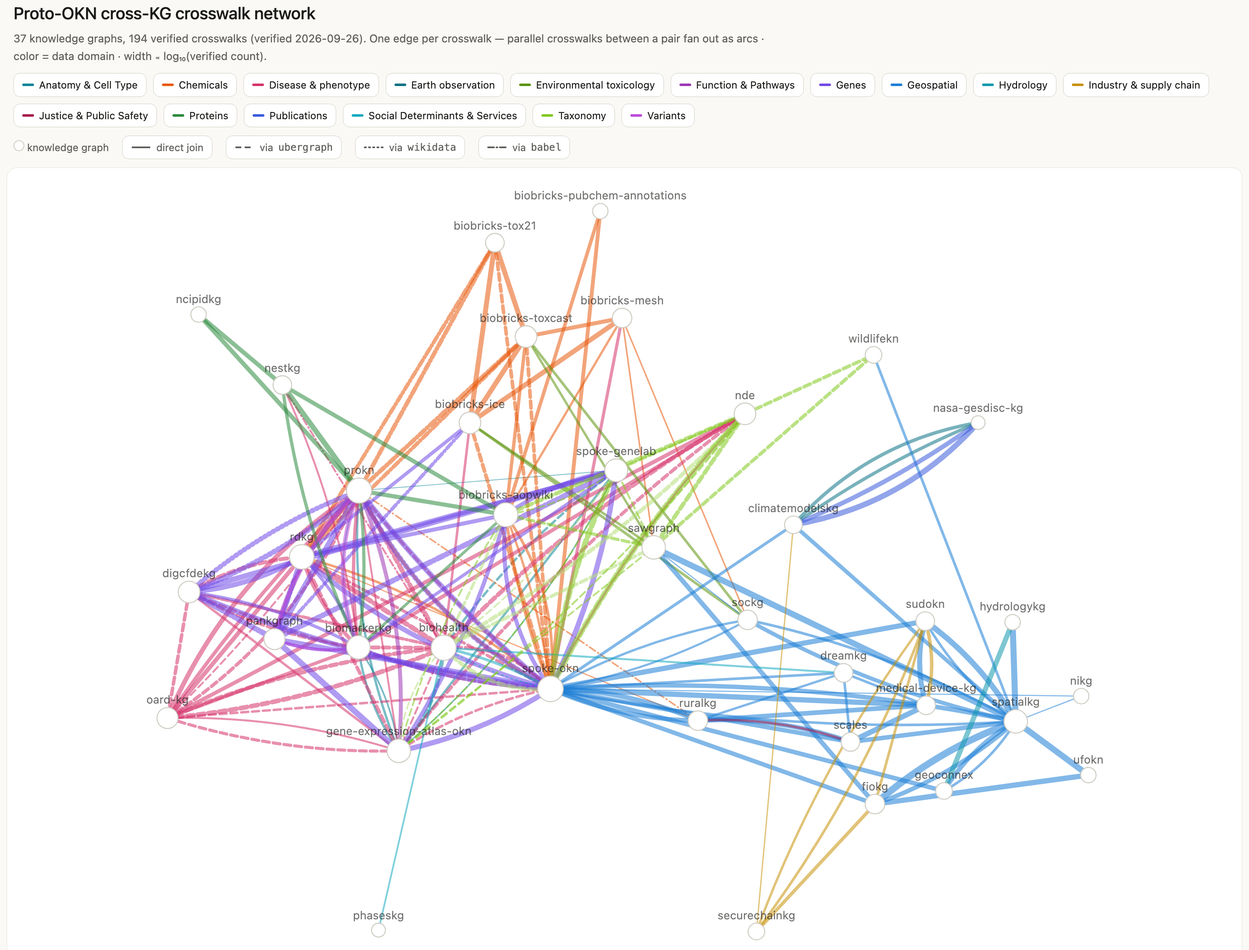
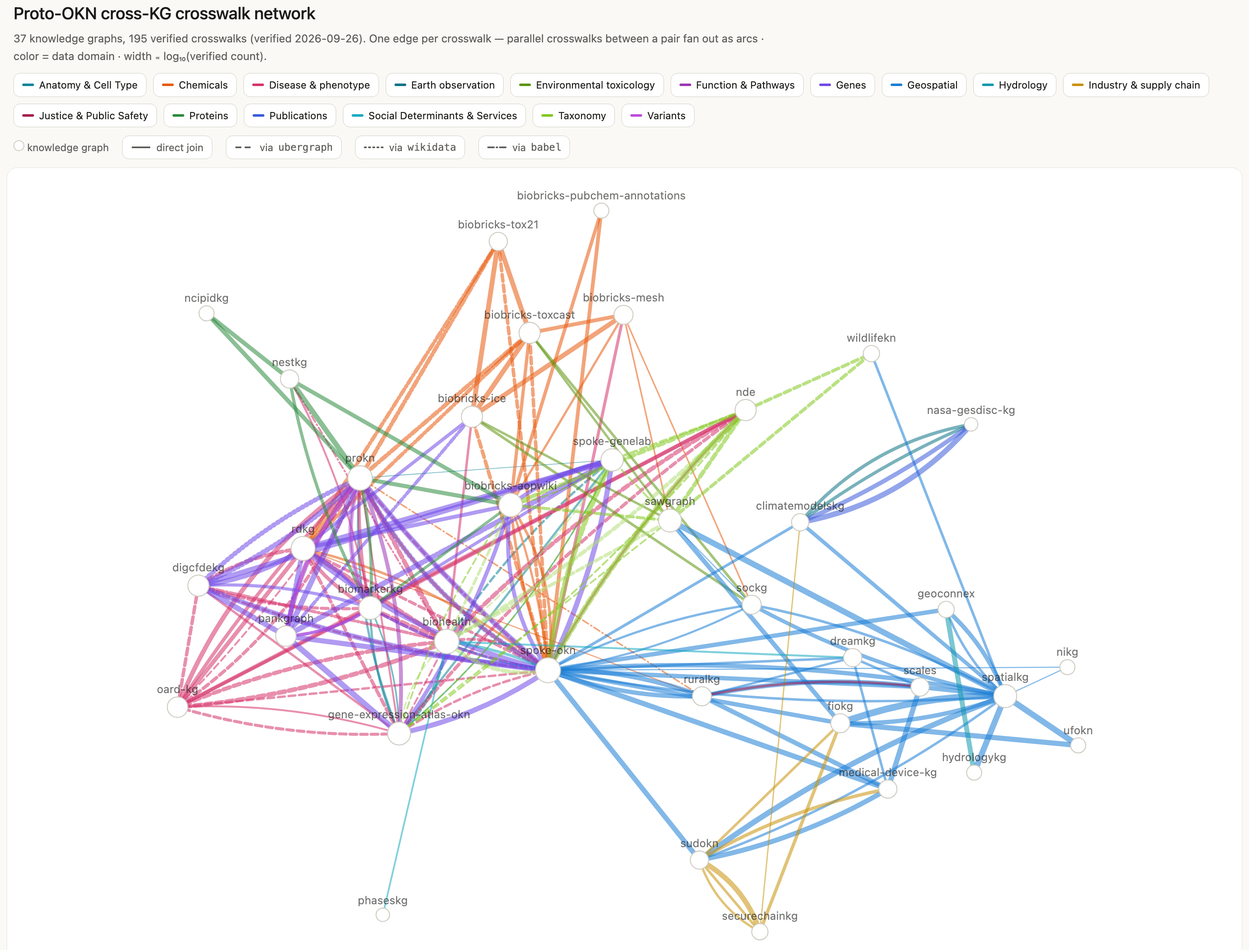
feat(crosswalks): add securechainkg×sudokn product-identity crosswalk (I4)
New verified crosswalk in metadata/crosswalks.json:

  id              I4-product-identity-securechain-sudokn
  join            securechainkg sc:HardwareVersion --owl:sameAs--> sudokn Product
  shared_key      SUDOKN_product_IRI
  verified_count  17,644 distinct products present on both sides
  skeleton_query  verified; reproduces the count in ~0.5s unsampled

SecureChain asserts owl:sameAs from its hardware versions onto SUDOKN product
IRIs: 18,094 triples, all into the SUDOKN namespace, all with HardwareVersion
subjects. The pair was previously catalogued only at the industry grain
(I1 NAICS, I2 industry sector). This is its first entity-level join. It
attributes 435 CVEs to 51 named SUDOKN manufacturers, which the industry joins
cannot do.

Also in this commit:
- cluster_notes.I_manufacturing_supply_chain: UPDATE paragraph correcting the
  statement that Hardware/HardwareVersion have no federation partner
- known_non_joins[securechainkg]: correction_2 pointing at I4
- count citations 181 -> 182 in README.md, crosswalks_example.md,
  proto-okn-crosswalk-inventory.md (skeleton count 179 -> 180)
- regenerated: inventory .md/.html, SPARQL skeleton reference, network
  .html/.png

diff --git a/docs/crosswalks/proto-okn-crosswalk-inventory.html b/docs/crosswalks/proto-okn-crosswalk-inventory.html
@@ -78,7 +78,7 @@ section[hidden], tr[hidden] { display: none; }
 <main>
 <h1>Proto-OKN Crosswalk Inventory</h1>
 <p class="meta"><span>Verified 2026-09-26</span><span>claude-opus-4-8</span><span><a href="https://apps.okn.us/federation/sparql">apps.okn.us/federation/sparql</a></span></p>
-<p class="lede">All 194 precomputed cross-KG crosswalks (verified through 2026-09-26), grouped by domain. Each shows the knowledge graphs joined, the shared identifier, the verified overlap count, and example questions the join answers. <strong>Every question links to the transcript</strong> of the worked example that answers it — the federated SPARQL, the rows it returned, and the reading.</p>
+<p class="lede">All 195 precomputed cross-KG crosswalks (verified through 2026-09-26), grouped by domain. Each shows the knowledge graphs joined, the shared identifier, the verified overlap count, and example questions the join answers. <strong>Every question links to the transcript</strong> of the worked example that answers it — the federated SPARQL, the rows it returned, and the reading.</p>
 <ul class="toc">
     <li><a href="#anatomy-cell-type">Anatomy &amp; Cell Type <span class="n">9</span></a></li>
     <li><a href="#chemicals">Chemicals <span class="n">26</span></a></li>
@@ -89,7 +89,7 @@ section[hidden], tr[hidden] { display: none; }
     <li><a href="#genes">Genes <span class="n">28</span></a></li>
     <li><a href="#geospatial">Geospatial <span class="n">39</span></a></li>
     <li><a href="#hydrology">Hydrology <span class="n">1</span></a></li>
-    <li><a href="#industry-supply-chain">Industry &amp; supply chain <span class="n">6</span></a></li>
+    <li><a href="#industry-supply-chain">Industry &amp; supply chain <span class="n">7</span></a></li>
     <li><a href="#justice-public-safety">Justice &amp; Public Safety <span class="n">1</span></a></li>
     <li><a href="#proteins">Proteins <span class="n">8</span></a></li>
     <li><a href="#publications">Publications <span class="n">2</span></a></li>
@@ -330,6 +330,7 @@ section[hidden], tr[hidden] { display: none; }
     <tr><td class="kgs">fiokg ↔ sudokn</td><td class="key">NAICS</td><td class="count">60</td><td class="examples"><a class="q" href="https://github.com/sbl-sdsc/mcp-okn/blob/main/docs/crosswalks/crosswalks_examples/industry02_q1_fiokg-sudokn_naics-epa-overlap.md">For a manufacturing NAICS industry, list SUDOKN small/medium manufacturers (capabilities, certificates) alongside the EPA FRS facilities (fiokg) in that same industry - and, via fiokg's county/S2 location, where those facilities sit on the spatial hub.</a><br><br><a class="q" href="https://github.com/sbl-sdsc/mcp-okn/blob/main/docs/crosswalks/crosswalks_examples/industry02_q2_fiokg-sudokn_pfas-smm.md">Starting from EPA FRS facilities (fiokg) clustered in a given county via their S2/county links, which NAICS industries do they represent, and are there SUDOKN small/medium manufacturers with matching capabilities in those same NAICS codes for local sourcing?</a></td></tr>
     <tr><td class="kgs">securechainkg ↔ sudokn</td><td class="key">NAICS</td><td class="count">35</td><td class="examples"><a class="q" href="https://github.com/sbl-sdsc/mcp-okn/blob/main/docs/crosswalks/crosswalks_examples/industry03_q1_securechainkg-sudokn_naics-overlap.md">For a manufacturing NAICS industry, list SUDOKN small/medium manufacturers (capabilities, certificates, capacity) and SecureChain supply-chain participants (software/hardware products and their vulnerabilities) in that same industry.</a><br><br><a class="q" href="https://github.com/sbl-sdsc/mcp-okn/blob/main/docs/crosswalks/crosswalks_examples/industry03_q2_securechainkg-sudokn_machine-shops.md">How many distinct SUDOKN manufacturers operate in each shared NAICS industry, and does the count of SecureChain participants (with known CVEs) in that same NAICS code rise or fall with it?</a></td></tr>
     <tr><td class="kgs">securechainkg ↔ sudokn</td><td class="key">SUDOKN_industry_sector</td><td class="count">58</td><td class="examples"><a class="q" href="https://github.com/sbl-sdsc/mcp-okn/blob/main/docs/crosswalks/crosswalks_examples/industry04_q1_securechainkg-sudokn_sector-overlap.md">Cross-reference the industry sectors served by SUDOKN manufacturers with the industry sectors of SecureChain supply-chain participants (e.g. which suppliers to the aerospace or automotive sector appear in both graphs).</a><br><br><a class="q" href="https://github.com/sbl-sdsc/mcp-okn/blob/main/docs/crosswalks/crosswalks_examples/industry04_q2_securechainkg-sudokn_aerospace-certs.md">Which SUDOKN-defined industry sector (aerospace, automotive, etc.) is served by the largest number of SecureChain supply-chain participants via suppliesToIndustry, and which manufacturers back it on the SUDOKN side?</a></td></tr>
+    <tr><td class="kgs">securechainkg ↔ sudokn</td><td class="key">SUDOKN_product_IRI</td><td class="count">17,644</td><td class="examples">Which manufacturers in Ohio make products with known vulnerabilities? (Novatech, Inc. — 6 products, CVE-2013-2821 and CVE-2013-2822. The same question routed through the I1 NAICS join returns 514 Ohio machine shops, none of which is Novatech.)<br><br>Which small business (no more than 250 employees) produces modems with the fewest recorded vulnerabilities? (Coship Electronics, 231 employees, and Dasan Networks, 157 employees — tied at zero. Needs sudokn:hasNumberOfEmployees on the SUDOKN side and sc:vulnerableTo on the securechainkg side, counted with OPTIONAL so zero-vulnerability products survive.)</td></tr>
     <tr><td class="kgs">climatemodelskg ↔ securechainkg</td><td class="key">climatemodelskg Source IRI</td><td class="count">3</td><td class="examples"><a class="q" href="https://github.com/sbl-sdsc/mcp-okn/blob/main/docs/crosswalks/crosswalks_examples/industry05_q1_climatemodelskg-securechainkg_vulnerable-deps.md">Which climate models have the most vulnerable dependencies and the highest number of vulnerabilities? (CESM2, GFDL-ESM4 and GFDL-CM4 link through securechainkg sc:dependsOn to vulnerable PyPI packages and their CVEs.)</a><br><br><a class="q" href="https://github.com/sbl-sdsc/mcp-okn/blob/main/docs/crosswalks/crosswalks_examples/industry05_q2_climatemodelskg-securechainkg_vuln-dep-breakdown.md">Given a specific vulnerable PyPI dependency (or its CVE) surfaced through securechainkg sc:dependsOn, which of CESM2, GFDL-ESM4, or GFDL-CM4 inherit that vulnerability?</a></td></tr>
     <tr><td class="kgs">medical-device-kg ↔ sudokn</td><td class="key">company name</td><td class="count">361</td><td class="examples"><a class="q" href="https://github.com/sbl-sdsc/mcp-okn/blob/main/docs/crosswalks/crosswalks_examples/industry06_q1_medicaldevice-sudokn_firm-capabilities.md">Which FDA-registered medical-device establishments are also profiled as US manufacturers in SUDOKN — and what process, material and capacity capability does SUDOKN add to a firm the FDA knows only as a registration record?</a><br><br><a class="q" href="https://github.com/sbl-sdsc/mcp-okn/blob/main/docs/crosswalks/crosswalks_examples/industry06_q2_medicaldevice-sudokn_name-zip-confirmation.md">How many FDA device-establishment names match a SUDOKN manufacturer, and how many of those matches are confirmed by both graphs reporting the same ZIP?</a></td></tr>
     </tbody>

diff --git a/docs/crosswalks/crosswalk-network.html b/docs/crosswalks/crosswalk-network.html
@@ -48,7 +48,7 @@
 <body>
 <header>
   <h1>Proto-OKN cross-KG crosswalk network</h1>
-  <p>37 knowledge graphs, 194 verified crosswalks (verified 2026-09-26). One edge per crosswalk &mdash; parallel crosswalks between a pair fan out as arcs · color = data domain · width &#8733; log&#8321;&#8320;(verified count).</p>
+  <p>37 knowledge graphs, 195 verified crosswalks (verified 2026-09-26). One edge per crosswalk &mdash; parallel crosswalks between a pair fan out as arcs · color = data domain · width &#8733; log&#8321;&#8320;(verified count).</p>
   <p class="tip">&#9654; <b>Hover</b> a node or edge for detail · <b>drag</b> to rearrange · <b>scroll</b> to zoom · <b>double-click</b> a node to unpin it.<br>&#9654; <b>Click a legend item</b> &mdash; a domain (e.g. <b>Chemicals</b>) or a line style (e.g. <b>via ubergraph</b>) &mdash; to toggle those edges.</p>
 </header>
 <div class="bar" id="legend"></div>
@@ -242,6 +242,7 @@ const R=[
 ["I",["fiokg","sudokn"],60,"NAICS"],
 ["I",["securechainkg","sudokn"],35,"NAICS"],
 ["I",["securechainkg","sudokn"],58,"SUDOKN_industry_sector"],
+["I",["securechainkg","sudokn"],17644,"SUDOKN_product_IRI"],
 ["I",["climatemodelskg","securechainkg"],3,"climatemodelskg Source IRI"],
 ["I",["medical-device-kg","sudokn"],361,"company name"],
 

diff --git a/docs/crosswalks/crosswalks_example.md b/docs/crosswalks/crosswalks_example.md
@@ -507,7 +507,7 @@ BioHealthKG's 6 NCBITaxon overlaps (T15–T20) join by **exact scientific-name m
 
 **Question generation.** The research questions were generated by the model (claude-opus-4-8), not hand-authored. For each verified crosswalk, the model inspected the two (or three) graphs' schemas and the shared identifier, then proposed questions that genuinely require the join, and ran and validated each one. The resulting questions are illustrative examples of what each crosswalk supports rather than a curated or exhaustive set.
 
-**Crosswalk selection.** Candidate joins came from the `mcp-okn list_crosswalks` registry (194 hand-verified crosswalks, verified 2026-07-12; the oard-kg×prokn DOID and OMIM-bridge examples were retired after ProKN v0.0.5 migrated its disease cross-references off `rdfs:seeAlso`, the scales×ruralkg NIBRS offense-category crosswalk CJ1 was added 2026-07-01 after the scales entities.csv update populated `fbi:OffenseUCRCode`, the sockg×sawgraph S2 Level-13 leaf-to-leaf crosswalk H3 was added 2026-07-11, the climatemodelskg×nasa-gesdisc-kg DOI crosswalk PB1 was added 2026-07-12 — de-islanding nasa-gesdisc-kg once its deployed namespace, distinct from the stale one in its entities.csv, was probed directly — and the climatemodelskg×nasa-gesdisc-kg GCMD instrument/platform label crosswalks EO1/EO2 were added 2026-07-12 after climatemodelskg's entities.csv was refreshed to expose its Instrument/Platform classes; and a further 14 crosswalks were added 2026-07-12 from a systematic sweep of the refreshed `<kg>_entities.csv` schemas — the geoconnex×hydrologykg NHDPlus-COMID join HY1, biobricks-mesh's entry into the CAS chemical cluster on the newly exposed `mesh:registryNumber` (M3–M7, superseding the M1 note that MeSH was "a disease/anatomy bridge, not a chemical one"), AOP-Wiki's new CHEMINF identifier surface (P2 de-islanding biobricks-pubchem-annotations at 401/403 PubChem CIDs, plus P3/CB1/DB1 into spoke-okn), climatemodelskg's first attachment to the SAWGraph spatial hub via a composite county-FIPS key bridged through spoke-okn (L7), and the ZIP axis J4–J6; the same sweep corrected ET1/ET2, whose dashed-only CAS regex had silently ignored 78 of SAWGraph's 131 CAS literals and undercounted the sawgraph×ice join 12→39 and sawgraph×toxcast 7→32); and on 2026-07-13 the Ensembl gene cluster was corrected — C3 had been advertising the pankgraph×spoke-okn pair at 168, which was not the pair's gene overlap at all but the coverage of a single 176-gene disease list (pankgraph's `gene_associated_with_condition` has exactly one object across the whole graph, MONDO_0005147 type 1 diabetes); C3 was rescoped to the true catalog overlap, 16,314, with the T1D cohort kept as its example question, and the never-catalogued pankgraph×gene-expression-atlas-okn pair was added as C15 — the federation's largest Ensembl join, previously invisible because the pair appeared only inside the 3-way clique row C2, whose 15,132 is set by the spoke-okn leg; C15 was first catalogued at 38,804 and re-verified on 2026-07-13 at **60,581** while its worked example (G19) was being authored, once it emerged that GXA mints its gene nodes under two IRI forms (Ensembl and NCBI-gene) and hangs the differential-expression statements off the NCBI-form node, so the original node-IRI join reached the gene catalog but almost none of the expression payload — the recipe now joins on `biolink:id`, which every GXA gene node carries regardless of form. C2 itself was then dropped: it duplicated C1's count exactly, introduced no new key and no new pair, and — because clique members render alphabetically, placing pankgraph in the middle — read as a bridge *through* pankgraph, which never existed. The free 3-way dossier it advertised survives as C1's example question; and C16 was added, joining prokn×spoke-okn *directly* on Ensembl at 16,140 shared ids — a pair that had been catalogued only as the wikidata-bridged C9 because the cluster note wrongly asserted that "prokn has no Entrez/Ensembl of its own", when in fact 38,001 of prokn's 38,372 `up:Gene` nodes *are* Ensembl IRIs and those same nodes carry Entrez on `skos:exactMatch`. C16 and C9 are tagged complementary: C9 uniquely reaches 166 genes and C16 uniquely reaches 16, and their union, 16,314, is spoke-okn's entire Ensembl-annotated gene set). On 2026-07-17 the same Ensembl correction was extended to the digcfdekg×prokn pair: C13 had routed digcfdekg's Entrez genes into prokn through Wikidata P354 (HGNC), but prokn's functional gene axis (`up:Gene`, the subject of `SIO_010078` "encodes") is 97.9% Ensembl (8,148) and only 2.1% HGNC-numeric (177), so that route reached only ~167 of the pair's genes with no error raised; C17 was added on the correct Wikidata P594 (Entrez→Ensembl) route, reaching 7,965 functional genes, and C13 was annotated as reaching only the HGNC marker/target-gene slice (a `COUNT` verifies fine, but pulling the ~7,965 gene rows for a local join can silently truncate under a client result-row cap, so each side is pulled separately and joined in pandas). A fourth edge on the climatemodelskg×nasa-gesdisc-kg pair (PB2, author name, 8,391) was added the same day but carries an explicit `caveat` field: it is a *name* join, not an ORCID join — climatemodelskg publishes no author identifier — and 11.3% of matched names resolve to more than one distinct ORCID on the NASA side ("Yang Liu" alone maps to 179 different people), so it is safe only for cohort-level questions and never for person-level claims. On 2026-09-01 an upstream metadata refresh (`sbl-sdsc/mcp-proto-okn`) added a new KG and rewrote four `<kg>_entities.csv` schemas, and a sweep of the refreshed surfaces added 16 crosswalks — the first batch in this table catalogued *ahead* of its worked examples (verified skeleton + two example questions each; transcripts still to be authored). **nestkg** (NeST nested systems in tumors, 1.32M triples) entered the UniProt cluster: it mints its 16,767 protein nodes in prokn's own `purl.uniprot.org` form, so G5 joins prokn at 16,729 (99.8%) with no rewrite at all, plus G6 AOP-Wiki 1,376, G7 ncipidkg 526, G8 BiomarkerKG 230 and A30 on its 14 MONDO cancer types. **medical-device-kg was de-islanded**: its island record described the old 2-class MAUDE graph, but the v0.0.3 redeploy (2026-07-28) added FDA establishment registration, X-ray assembler sites, MQSA mammography facilities, 510(k)/PMA applicants and recall firms — with 21,815 distinct `mdo:zip` and 14,689 distinct `mdo:postalCode` values — putting it on the ZIP5 cluster at J7 spoke-okn 19,563, J8 scales 19,089, J9 sudokn 11,067, J10 ruralkg 5,118, J11 dreamkg 50 (it is the only ZIP member carrying non-US postal codes, so its skeletons filter to `^[0-9]{5}$` after the digit-strip). And **BiomarkerKG's non-protein axes had never been swept**, because its payload was tagged biomarker/disease/protein/cell_type: its assessed entities are in fact 147,386 dbSNP variants, 201 PubChem gene IRIs whose GID number *is* the Entrez id, 63 PubChem compounds and 53 UBERON sample sources. That yields C18–C21 on Entrez (spoke-okn 191, spoke-genelab 200, digcfdekg 200, rdkg 167), AN7 on UBERON with GXA (27), and V1 — the first variant crosswalk in the federation, 214 rsIDs shared with pankgraph, which supersedes the 2026-06-27 finding that "no other federation KG materializes dbSNP rsIDs". A seventeenth was added on a re-check: **I3, medical-device-kg×sudokn on company name**. The sweep had first dismissed the industry route because medical-device-kg carries no NAICS code — true, but beside the point, since it publishes the firms themselves (53,499 `mdo:Manufacturer` entities keyed by FDA establishment identifier, plus 25,132 registration records). Normalized against sudokn's 31,636 manufacturers — lowercase, strip punctuation, then strip a trailing corporate suffix twice, which lifts the match from 124 to 361 — the pair shares **361 company names, 260 of them independently confirmed by both graphs reporting the same ZIP** (77.8% of the 334 testable). It is catalogued as a name join with a caveat, like PB2, but a much stronger one: only 3.7% of sudokn's company names cover more than one firm, against 11.3% ambiguity for PB2's author names. Three surfaces from the same sweep were checked and NOT catalogued: climatemodelskg's new `gcmd_uuid` (999 GCMD keyword UUIDs) has no partner — nasa-gesdisc-kg's instrument/platform nodes are opaque `node/{n}` IRIs with labels only, so EO1/EO2 stay label joins; BiomarkerKG's 63 PubChem compounds overlap biobricks-pubchem-annotations at 0; and medical-device-kg×fiokg has no company-name surface on the fiokg side, which labels only 179 Organization nodes, all federal agencies. On 2026-09-26 **babel** — the Translator Babel identifier-clique graph, registered on 2026-09-01 but empty until then — was loaded into the federation and joined ubergraph and wikidata as a third bridge KG. Its first crosswalk, **DB2**, reverses a recorded non-join: prokn (ChEMBL-keyed) and rdkg (CHEBI/DrugBank-keyed) share no chemical identifier scheme, but rdkg's DrugBank drugs resolve through their babel clique to ChEMBL ids that prokn carries, joining **1,816** of rdkg's 2,074 DrugBank drugs to 1,836 prokn compounds. A systematic sweep the same day — every biomedical KG pair with no crosswalk on an axis where both sides carry an identifier babel covers — added twelve more: the CAS-keyed toxicology graphs reach the drug graphs for the first time (**CB2/CB3** Tox21 2,462 and ToxCast 2,504 chemicals → prokn ChEMBL compounds; **DB3/DB4** Tox21 920 and ToxCast 928 → rdkg DrugBank drugs), **DB5** ruralkg's DrugBank-linked substances reach prokn (6); pankgraph, the one Ensembl-only gene graph, joins the Entrez-keyed graphs (**C22–C26**: rdkg 9,159, spoke-genelab 28,554, digcfdekg 34,013, BiomarkerKG 200, ICE assay targets 395 genes); and BioHealthKG's UMLS concepts reach digcfdekg's MONDO traits (**BH20**, 208) and NeST's cancer types (**BH21**, 12). Two candidates did not make it: sawgraph × prokn is a verified 0 (21 of SAWGraph's PFAS-heavy contaminants have ChEMBL ids, none of them among prokn's compounds), and ICE's ~200,000-CAS chemical axis is too large to push through babel in a single query.
+**Crosswalk selection.** Candidate joins came from the `mcp-okn list_crosswalks` registry (195 hand-verified crosswalks, verified 2026-07-12; the oard-kg×prokn DOID and OMIM-bridge examples were retired after ProKN v0.0.5 migrated its disease cross-references off `rdfs:seeAlso`, the scales×ruralkg NIBRS offense-category crosswalk CJ1 was added 2026-07-01 after the scales entities.csv update populated `fbi:OffenseUCRCode`, the sockg×sawgraph S2 Level-13 leaf-to-leaf crosswalk H3 was added 2026-07-11, the climatemodelskg×nasa-gesdisc-kg DOI crosswalk PB1 was added 2026-07-12 — de-islanding nasa-gesdisc-kg once its deployed namespace, distinct from the stale one in its entities.csv, was probed directly — and the climatemodelskg×nasa-gesdisc-kg GCMD instrument/platform label crosswalks EO1/EO2 were added 2026-07-12 after climatemodelskg's entities.csv was refreshed to expose its Instrument/Platform classes; and a further 14 crosswalks were added 2026-07-12 from a systematic sweep of the refreshed `<kg>_entities.csv` schemas — the geoconnex×hydrologykg NHDPlus-COMID join HY1, biobricks-mesh's entry into the CAS chemical cluster on the newly exposed `mesh:registryNumber` (M3–M7, superseding the M1 note that MeSH was "a disease/anatomy bridge, not a chemical one"), AOP-Wiki's new CHEMINF identifier surface (P2 de-islanding biobricks-pubchem-annotations at 401/403 PubChem CIDs, plus P3/CB1/DB1 into spoke-okn), climatemodelskg's first attachment to the SAWGraph spatial hub via a composite county-FIPS key bridged through spoke-okn (L7), and the ZIP axis J4–J6; the same sweep corrected ET1/ET2, whose dashed-only CAS regex had silently ignored 78 of SAWGraph's 131 CAS literals and undercounted the sawgraph×ice join 12→39 and sawgraph×toxcast 7→32); and on 2026-07-13 the Ensembl gene cluster was corrected — C3 had been advertising the pankgraph×spoke-okn pair at 168, which was not the pair's gene overlap at all but the coverage of a single 176-gene disease list (pankgraph's `gene_associated_with_condition` has exactly one object across the whole graph, MONDO_0005147 type 1 diabetes); C3 was rescoped to the true catalog overlap, 16,314, with the T1D cohort kept as its example question, and the never-catalogued pankgraph×gene-expression-atlas-okn pair was added as C15 — the federation's largest Ensembl join, previously invisible because the pair appeared only inside the 3-way clique row C2, whose 15,132 is set by the spoke-okn leg; C15 was first catalogued at 38,804 and re-verified on 2026-07-13 at **60,581** while its worked example (G19) was being authored, once it emerged that GXA mints its gene nodes under two IRI forms (Ensembl and NCBI-gene) and hangs the differential-expression statements off the NCBI-form node, so the original node-IRI join reached the gene catalog but almost none of the expression payload — the recipe now joins on `biolink:id`, which every GXA gene node carries regardless of form. C2 itself was then dropped: it duplicated C1's count exactly, introduced no new key and no new pair, and — because clique members render alphabetically, placing pankgraph in the middle — read as a bridge *through* pankgraph, which never existed. The free 3-way dossier it advertised survives as C1's example question; and C16 was added, joining prokn×spoke-okn *directly* on Ensembl at 16,140 shared ids — a pair that had been catalogued only as the wikidata-bridged C9 because the cluster note wrongly asserted that "prokn has no Entrez/Ensembl of its own", when in fact 38,001 of prokn's 38,372 `up:Gene` nodes *are* Ensembl IRIs and those same nodes carry Entrez on `skos:exactMatch`. C16 and C9 are tagged complementary: C9 uniquely reaches 166 genes and C16 uniquely reaches 16, and their union, 16,314, is spoke-okn's entire Ensembl-annotated gene set). On 2026-07-17 the same Ensembl correction was extended to the digcfdekg×prokn pair: C13 had routed digcfdekg's Entrez genes into prokn through Wikidata P354 (HGNC), but prokn's functional gene axis (`up:Gene`, the subject of `SIO_010078` "encodes") is 97.9% Ensembl (8,148) and only 2.1% HGNC-numeric (177), so that route reached only ~167 of the pair's genes with no error raised; C17 was added on the correct Wikidata P594 (Entrez→Ensembl) route, reaching 7,965 functional genes, and C13 was annotated as reaching only the HGNC marker/target-gene slice (a `COUNT` verifies fine, but pulling the ~7,965 gene rows for a local join can silently truncate under a client result-row cap, so each side is pulled separately and joined in pandas). A fourth edge on the climatemodelskg×nasa-gesdisc-kg pair (PB2, author name, 8,391) was added the same day but carries an explicit `caveat` field: it is a *name* join, not an ORCID join — climatemodelskg publishes no author identifier — and 11.3% of matched names resolve to more than one distinct ORCID on the NASA side ("Yang Liu" alone maps to 179 different people), so it is safe only for cohort-level questions and never for person-level claims. On 2026-09-01 an upstream metadata refresh (`sbl-sdsc/mcp-proto-okn`) added a new KG and rewrote four `<kg>_entities.csv` schemas, and a sweep of the refreshed surfaces added 16 crosswalks — the first batch in this table catalogued *ahead* of its worked examples (verified skeleton + two example questions each; transcripts still to be authored). **nestkg** (NeST nested systems in tumors, 1.32M triples) entered the UniProt cluster: it mints its 16,767 protein nodes in prokn's own `purl.uniprot.org` form, so G5 joins prokn at 16,729 (99.8%) with no rewrite at all, plus G6 AOP-Wiki 1,376, G7 ncipidkg 526, G8 BiomarkerKG 230 and A30 on its 14 MONDO cancer types. **medical-device-kg was de-islanded**: its island record described the old 2-class MAUDE graph, but the v0.0.3 redeploy (2026-07-28) added FDA establishment registration, X-ray assembler sites, MQSA mammography facilities, 510(k)/PMA applicants and recall firms — with 21,815 distinct `mdo:zip` and 14,689 distinct `mdo:postalCode` values — putting it on the ZIP5 cluster at J7 spoke-okn 19,563, J8 scales 19,089, J9 sudokn 11,067, J10 ruralkg 5,118, J11 dreamkg 50 (it is the only ZIP member carrying non-US postal codes, so its skeletons filter to `^[0-9]{5}$` after the digit-strip). And **BiomarkerKG's non-protein axes had never been swept**, because its payload was tagged biomarker/disease/protein/cell_type: its assessed entities are in fact 147,386 dbSNP variants, 201 PubChem gene IRIs whose GID number *is* the Entrez id, 63 PubChem compounds and 53 UBERON sample sources. That yields C18–C21 on Entrez (spoke-okn 191, spoke-genelab 200, digcfdekg 200, rdkg 167), AN7 on UBERON with GXA (27), and V1 — the first variant crosswalk in the federation, 214 rsIDs shared with pankgraph, which supersedes the 2026-06-27 finding that "no other federation KG materializes dbSNP rsIDs". A seventeenth was added on a re-check: **I3, medical-device-kg×sudokn on company name**. The sweep had first dismissed the industry route because medical-device-kg carries no NAICS code — true, but beside the point, since it publishes the firms themselves (53,499 `mdo:Manufacturer` entities keyed by FDA establishment identifier, plus 25,132 registration records). Normalized against sudokn's 31,636 manufacturers — lowercase, strip punctuation, then strip a trailing corporate suffix twice, which lifts the match from 124 to 361 — the pair shares **361 company names, 260 of them independently confirmed by both graphs reporting the same ZIP** (77.8% of the 334 testable). It is catalogued as a name join with a caveat, like PB2, but a much stronger one: only 3.7% of sudokn's company names cover more than one firm, against 11.3% ambiguity for PB2's author names. Three surfaces from the same sweep were checked and NOT catalogued: climatemodelskg's new `gcmd_uuid` (999 GCMD keyword UUIDs) has no partner — nasa-gesdisc-kg's instrument/platform nodes are opaque `node/{n}` IRIs with labels only, so EO1/EO2 stay label joins; BiomarkerKG's 63 PubChem compounds overlap biobricks-pubchem-annotations at 0; and medical-device-kg×fiokg has no company-name surface on the fiokg side, which labels only 179 Organization nodes, all federal agencies. On 2026-09-26 **babel** — the Translator Babel identifier-clique graph, registered on 2026-09-01 but empty until then — was loaded into the federation and joined ubergraph and wikidata as a third bridge KG. Its first crosswalk, **DB2**, reverses a recorded non-join: prokn (ChEMBL-keyed) and rdkg (CHEBI/DrugBank-keyed) share no chemical identifier scheme, but rdkg's DrugBank drugs resolve through their babel clique to ChEMBL ids that prokn carries, joining **1,816** of rdkg's 2,074 DrugBank drugs to 1,836 prokn compounds. A systematic sweep the same day — every biomedical KG pair with no crosswalk on an axis where both sides carry an identifier babel covers — added twelve more: the CAS-keyed toxicology graphs reach the drug graphs for the first time (**CB2/CB3** Tox21 2,462 and ToxCast 2,504 chemicals → prokn ChEMBL compounds; **DB3/DB4** Tox21 920 and ToxCast 928 → rdkg DrugBank drugs), **DB5** ruralkg's DrugBank-linked substances reach prokn (6); pankgraph, the one Ensembl-only gene graph, joins the Entrez-keyed graphs (**C22–C26**: rdkg 9,159, spoke-genelab 28,554, digcfdekg 34,013, BiomarkerKG 200, ICE assay targets 395 genes); and BioHealthKG's UMLS concepts reach digcfdekg's MONDO traits (**BH20**, 208) and NeST's cancer types (**BH21**, 12). Two candidates did not make it: sawgraph × prokn is a verified 0 (21 of SAWGraph's PFAS-heavy contaminants have ChEMBL ids, none of them among prokn's compounds), and ICE's ~200,000-CAS chemical axis is too large to push through babel in a single query.
 
 **The variant cluster, swept properly (2026-09-01).** V1 was catalogued as if BiomarkerKG and PanKgraph were the only graphs carrying variants. They are not. **ProKN carries 68,695 distinct dbSNP rsIDs** — but as prose, not as a key: they sit inside `schema:description` on its 89,904 UniProt natural-variant annotations (*'in AH2; activity abolished; dbSNP:rs80358219'*), which is why every earlier sweep, looking for a cross-reference predicate, missed them. Extracted with a `REPLACE`, they give **V2 prokn×biomarkerkg at 3,241** — 15× V1, and the only variant edge that reaches a protein residue rather than just a gene — and **V3 prokn×pankgraph at 214**. Two traps were caught by controls rather than by inspection. PanKgraph's dbSNP references are `xsd:anyURI` **literals**, not IRIs, so a constructed-IRI probe returns a clean, wrong **0**; the control (probing for an rsID PanKgraph provably has) is what exposed it, and both sides now reduce to the bare rsID string. And V3's 214 is *exactly* V1's 214 — checked member by member rather than assumed to be a duplicate row: the sets share only 13 rsIDs, so the equal size is chance. Beyond dbSNP the axis is closed: **rdkg's 7,367 ClinVar VariationIDs have no partner** (the 174,674 'clinvar' strings in BiomarkerKG are a `dcterms:source` provenance value naming the database, not identifiers; and the federation's Wikidata subset carries P1929 on 3 items), and **nestkg and ncipidkg carry no variants at all** — scanned exhaustively, both being small enough to check every object for rs / refsnp / VAR_ / ClinVar / COSMIC / dbVar. For each pair (or triple) of knowledge graphs, `get_join_strategy` supplied the precomputed join recipe — the shared identifier, the predicate/role on each side, the IRI-normalization rewrite needed to make the two graphs' identifiers literally equal, and a verified non-zero row count. A crosswalk was only written up once a join returned rows that genuinely answered the research question.
 
@@ -518,7 +518,7 @@ BioHealthKG's 6 NCBITaxon overlaps (T15–T20) join by **exact scientific-name m
 - **Skeletons that could never have run.** D11/D12 embedded a bare `\S` in a SPARQL string literal (an illegal escape → HTTP 400), and L8 both replaced with an empty string instead of `$1` *and* joined via the cross-graph `FILTER(STR(?a) = ?b)` silent-zero trap. All three still reproduce their stored counts once repaired, so the crosswalks were always real — only the published SPARQL was broken.
 - **Undercounts and drift.** J2 (spoke-okn×ruralkg ZIP) 4,938→5,390: ruralkg drops the leading zero on New England ZIPs (`'1002 '` = 01002), so those never matched — the same leading-zero/format class of bug as ET1/ET2's undashed CAS. Re-baselined on live re-verification: G3 205→209, G4 84→86, N4 64→60 (genuine data movement; SU1's apparent 51→12 collapse was a query defect, corrected above).
 
-Eleven skeletons that exceeded the endpoint's operation limit were rewritten to drive from the small, typed side rather than scanning a whole graph with an unbound `?s ?p ?o`; eight ran. Three were then carried as unverifiable *by design* — D9 (`subClassOf*` over ~34,570 taxa) and O1/O2 (ufokn's ~11.7M S2 nodes, whose counts were documented as sampled lower bounds). **That "by design" was wrong, and as of 2026-09-01 every skeleton in the catalog runs.** The catalog now stands at 194 crosswalks with 192 stored skeletons. On the last full re-verification (2026-09-01) **179 of 179 reproduced their stored count exactly — zero failures, zero drift**, and the 13 crosswalks bridged through babel on 2026-09-26 (DB2–DB5, CB2–CB3, C22–C26, BH20–BH21) each reproduced their count when verified individually (the one remaining entry without a skeleton is SU2, whose S2 cell is computed from lat/long by the `spatial_bridge` tool rather than stored anywhere).
+Eleven skeletons that exceeded the endpoint's operation limit were rewritten to drive from the small, typed side rather than scanning a whole graph with an unbound `?s ?p ?o`; eight ran. Three were then carried as unverifiable *by design* — D9 (`subClassOf*` over ~34,570 taxa) and O1/O2 (ufokn's ~11.7M S2 nodes, whose counts were documented as sampled lower bounds). **That "by design" was wrong, and as of 2026-09-01 every skeleton in the catalog runs.** The catalog now stands at 195 crosswalks with 193 stored skeletons. On the last full re-verification (2026-09-01) **179 of 179 reproduced their stored count exactly — zero failures, zero drift**, and the 13 crosswalks bridged through babel on 2026-09-26 (DB2–DB5, CB2–CB3, C22–C26, BH20–BH21) each reproduced their count when verified individually (the one remaining entry without a skeleton is SU2, whose S2 cell is computed from lat/long by the `spatial_bridge` tool rather than stored anywhere).
 
 Getting there meant repairing eight queries that had gone unrunnable, and the fix was the same idea every time: **a string `FILTER` written inside a `GRAPH` block runs before the join, so it scans the whole relation.** fiokg's `owl:sameAs` alone is 17,818,851 triples; every N-cluster skeleton was filtering it with `STRSTARTS`/`STRLEN` before anything could shrink it. Moving the filter out, or deleting it as redundant, or driving from the small typed side instead, turned 90-second timeouts into sub-second queries: **N1 681,045 in 0.7s** (the `STRSTARTS` was redundant — only S2 cells carry spatialkg's `S2Cell_Level13` type, so the join already selected them), **N2 3,031 in 0.2s** (drive from spatialkg's 6,228 typed counties and the fiokg pattern becomes an object lookup), **N3 3,032 in 1.0s** (drive from spoke-okn's 113,881 typed locations and rebuild the KWG region IRI), **N6 4,712 in 0.9s** (same filter, moved *after* the join — and it is not redundant here: of the 6,223 objects fiokg and sawgraph share, 1,511 are not S2 cells), and **L8 63 in 1.0s** (add the county type to the label pattern so `CONTAINS(' County, Florida')` tests 6,228 rows instead of spatialkg's entire label relation). Two further rewrites unlocked the ufokn pair: **bind the HTTPS schema.org predicates** with `BIND(IRI(CONCAT('https://schema.org/','value')))` instead of scanning every predicate with a `CONTAINS` filter, and **push `DISTINCT` before the IRI construction** so the query builds 97,087 cell IRIs instead of 5.86M. **O1 is now an exact 97,087** where it had been a sampled bound (the sample was right), and **O2 is 19,252 — 7.8x the 2,461 it had been carrying**, because that figure came from a `LIMIT 5000` slice of 5.86M rows. Anyone who quoted 2,461 as ufokn's overlap with fiokg understated it eightfold. **D9 was verified for the first time**, by partition: a `subClassOf*` closure over 55 roots at once still exceeds the endpoint, but one fixed root against the bound spoke-okn set runs in ~5s, so the join was measured as 55 bounded per-root queries. 39 roots contribute, `NCBITaxon_2` (Bacteria) alone yields the full 33,313, and all 38 other contributing roots were then confirmed to sit under Bacteria — so the union is exactly that one clade's count. The stored skeleton pins the closure to that root (QLever needs the root as a literal constant; pinning the same value with a `FILTER` still times out) but keeps spoke-genelab in the query as a witness block, so the count drops to 0 rather than going stale if spoke-genelab ever stops naming that clade. The eukaryotic roots spoke-genelab also studies (human, mouse, rat, Arabidopsis, yeast, *C. elegans*, *Drosophila*, zebrafish) all return 0: spoke-okn's organism set is bacterial. The pass also caught two things a spot-check would have missed. **G2 (ncipidkg×prokn on UniProt) was returning 0, not 12**: ncipidkg's v0.0.2 redeploy (2026-07-02) moved its `owl:sameAs` objects off `http://identifiers.org/uniprot/` (now 0 triples) onto `http://purl.uniprot.org/uniprot/` (11,760), so the recipe's normalization was rewriting a namespace the graph no longer had — a silent empty join, not an error. Repaired to a direct IRI match, the pair is **1,979**, not 12. And the four climatemodelskg×nasa-gesdisc-kg edges all drifted UP with no recipe change, because climatemodelskg v0.0.16 (2026-07-28) is ~5.6× its former size (10,699 DOIs, was 1,910): **PB1 651→3,660, PB2 8,391→32,586, EO1 115→342, EO2 70→236** — the DOI match rate itself is stable at 34%. PB2's ORCID-ambiguity quantification was *not* re-measured at the new scale and is flagged as a floor, since a 4× larger name pool can only collide more.
 

diff --git a/docs/crosswalks/proto-okn-crosswalk-inventory.md b/docs/crosswalks/proto-okn-crosswalk-inventory.md
@@ -18,7 +18,7 @@ list crosswalks with examples
 
 🧠 **Assistant**
 
-Here are all 194 precomputed cross-KG crosswalks (verified through 2026-09-26), grouped by domain. Each shows the knowledge graphs joined, the shared identifier, the verified overlap count, and example questions the join answers.
+Here are all 195 precomputed cross-KG crosswalks (verified through 2026-09-26), grouped by domain. Each shows the knowledge graphs joined, the shared identifier, the verified overlap count, and example questions the join answers.
 
 ## Anatomy & Cell Type
 
@@ -223,6 +223,7 @@ Here are all 194 precomputed cross-KG crosswalks (verified through 2026-09-26), 
 | fiokg ↔ sudokn | NAICS | 60 | For a manufacturing NAICS industry, list SUDOKN small/medium manufacturers (capabilities, certificates) alongside the EPA FRS facilities (fiokg) in that same industry - and, via fiokg's county/S2 location, where those facilities sit on the spatial hub.<br><br>Starting from EPA FRS facilities (fiokg) clustered in a given county via their S2/county links, which NAICS industries do they represent, and are there SUDOKN small/medium manufacturers with matching capabilities in those same NAICS codes for local sourcing? |
 | securechainkg ↔ sudokn | NAICS | 35 | For a manufacturing NAICS industry, list SUDOKN small/medium manufacturers (capabilities, certificates, capacity) and SecureChain supply-chain participants (software/hardware products and their vulnerabilities) in that same industry.<br><br>How many distinct SUDOKN manufacturers operate in each shared NAICS industry, and does the count of SecureChain participants (with known CVEs) in that same NAICS code rise or fall with it? |
 | securechainkg ↔ sudokn | SUDOKN_industry_sector | 58 | Cross-reference the industry sectors served by SUDOKN manufacturers with the industry sectors of SecureChain supply-chain participants (e.g. which suppliers to the aerospace or automotive sector appear in both graphs).<br><br>Which SUDOKN-defined industry sector (aerospace, automotive, etc.) is served by the largest number of SecureChain supply-chain participants via suppliesToIndustry, and which manufacturers back it on the SUDOKN side? |
+| securechainkg ↔ sudokn | SUDOKN_product_IRI | 17,644 | Which manufacturers in Ohio make products with known vulnerabilities? (Novatech, Inc. — 6 products, CVE-2013-2821 and CVE-2013-2822. The same question routed through the I1 NAICS join returns 514 Ohio machine shops, none of which is Novatech.)<br><br>Which small business (no more than 250 employees) produces modems with the fewest recorded vulnerabilities? (Coship Electronics, 231 employees, and Dasan Networks, 157 employees — tied at zero. Needs sudokn:hasNumberOfEmployees on the SUDOKN side and sc:vulnerableTo on the securechainkg side, counted with OPTIONAL so zero-vulnerability products survive.) |
 | climatemodelskg ↔ securechainkg | climatemodelskg Source IRI | 3 | Which climate models have the most vulnerable dependencies and the highest number of vulnerabilities? (CESM2, GFDL-ESM4 and GFDL-CM4 link through securechainkg sc:dependsOn to vulnerable PyPI packages and their CVEs.)<br><br>Given a specific vulnerable PyPI dependency (or its CVE) surfaced through securechainkg sc:dependsOn, which of CESM2, GFDL-ESM4, or GFDL-CM4 inherit that vulnerability? |
 | medical-device-kg ↔ sudokn | company name | 361 | Which FDA-registered medical-device establishments are also profiled as US manufacturers in SUDOKN — and what process, material and capacity capability does SUDOKN add to a firm the FDA knows only as a registration record?<br><br>How many FDA device-establishment names match a SUDOKN manufacturer, and how many of those matches are confirmed by both graphs reporting the same ZIP? |
 

diff --git a/docs/crosswalks/crosswalks_sparql_skeletons.md b/docs/crosswalks/crosswalks_sparql_skeletons.md
@@ -59,7 +59,7 @@ For each crosswalk, list the join key and the SPARQL skeleton
 
 🧠 **Assistant**
 
-The OKN federation has **194 crosswalks**, which collapse into **60 join-key families** (a domain + a shared identifier). They are grouped below by domain and key family — each entry lists every KG pair sharing that key (with its verified `COUNT(DISTINCT)`), the identifier scheme/namespace, and a runnable `COUNT(DISTINCT)` skeleton with the IRI normalization already applied (a naive join on the raw id usually returns 0 rows).
+The OKN federation has **195 crosswalks**, which collapse into **61 join-key families** (a domain + a shared identifier). They are grouped below by domain and key family — each entry lists every KG pair sharing that key (with its verified `COUNT(DISTINCT)`), the identifier scheme/namespace, and a runnable `COUNT(DISTINCT)` skeleton with the IRI normalization already applied (a naive join on the raw id usually returns 0 rows).
 
 **Pairs in one family often need different SPARQL**, so where a family's members diverge, every distinct skeleton is shown and labelled with the pairs it applies to. The CAS family is the clearest case: the biobricks graphs hang the id off `edam:has_identifier`, MeSH exposes it as `meshv:registryNumber`, and SAWGraph/SOCKG store it as a bare literal that must be rebuilt into an IRI. Copy the skeleton for YOUR pair, then extend it with your payload.
 
@@ -2077,6 +2077,19 @@ SELECT (COUNT(DISTINCT ?nm) AS ?n) WHERE {
       BIND(REPLACE(?s3, " (inc|incorporated|llc|llp|lp|corp|corporation|co|company|ltd|limited|plc|gmbh|sa|ag|nv|bv|pty)$", "") AS ?s4)
       BIND(REPLACE(?s4, " (inc|incorporated|llc|llp|lp|corp|corporation|co|company|ltd|limited|plc|gmbh|sa|ag|nv|bv|pty)$", "") AS ?s5)
       BIND(REPLACE(?s5, "^ | $", "") AS ?nm) } }
+}
+```
+
+**SUDOKN_product_IRI** — `http://asu.edu/semantics/SUDOKN/{vendor-domain}-{product-name}-product-instance — asserted as the OBJECT of owl:sameAs in securechainkg, where the SUBJECT is always a https://w3id.org/secure-chain/HardwareVersion. The IRIs are byte-identical on both sides by design — the SecureChain team minted its hardware-version identity links against SUDOKN's product IRIs by agreement with the SUDOKN team — so no rewriting is required and the join is stable across releases of either graph.`: securechainkg × sudokn(17,644).
+
+```sparql
+SELECT (COUNT(DISTINCT ?product) AS ?n) WHERE {
+  GRAPH <https://purl.org/okn/frink/kg/securechainkg> {
+    ?hv <http://www.w3.org/2002/07/owl#sameAs> ?product .
+  }
+  GRAPH <https://purl.org/okn/frink/kg/sudokn> {
+    ?m <http://asu.edu/semantics/SUDOKN/manufactures> ?product .
+  }
 }
 ```
 

diff --git a/README.md b/README.md
@@ -79,7 +79,7 @@ where a question one graph can't answer alone becomes answerable by combining tw
 This section catalogs the verified crosswalks and shows the queries that exercise
 them.
 
-A visual map of the whole network — all 194 crosswalks across 37 graphs, drawn as
+A visual map of the whole network — all 195 crosswalks across 37 graphs, drawn as
 direct KG-to-KG edges (edge width ∝ log of the verified join count). Each crosswalk is
 its own edge, so multiple crosswalks between the same pair of graphs fan out as parallel
 arcs. Identifier-bridged joins (e.g. `DOID↔MONDO` via `ubergraph`, `HGNC→Entrez` via
@@ -105,7 +105,7 @@ geospatial and industrial joins against their authoritative shared standard):
   Geospatial, Hydrology, Industry & Supply Chain, Justice & Public Safety, Proteins,
   Publications, Social Determinants & Services, Taxonomy, Variants). Every crosswalk is now worked
   twice — the inventory carries
-  **388 questions — two for every one of the 194 crosswalks** — and the catalog has a
+  **390 questions — two for every one of the 195 crosswalks** — and the catalog has a
   transcript behind each one, plus four questions on two extra stems (a second example on
   the spoke-genelab×spoke-okn Entrez axis, and the three-way gene dossier whose clique row
   was retired). All 19 crosswalks added in the 2026-09-01 upstream-metadata pass are
